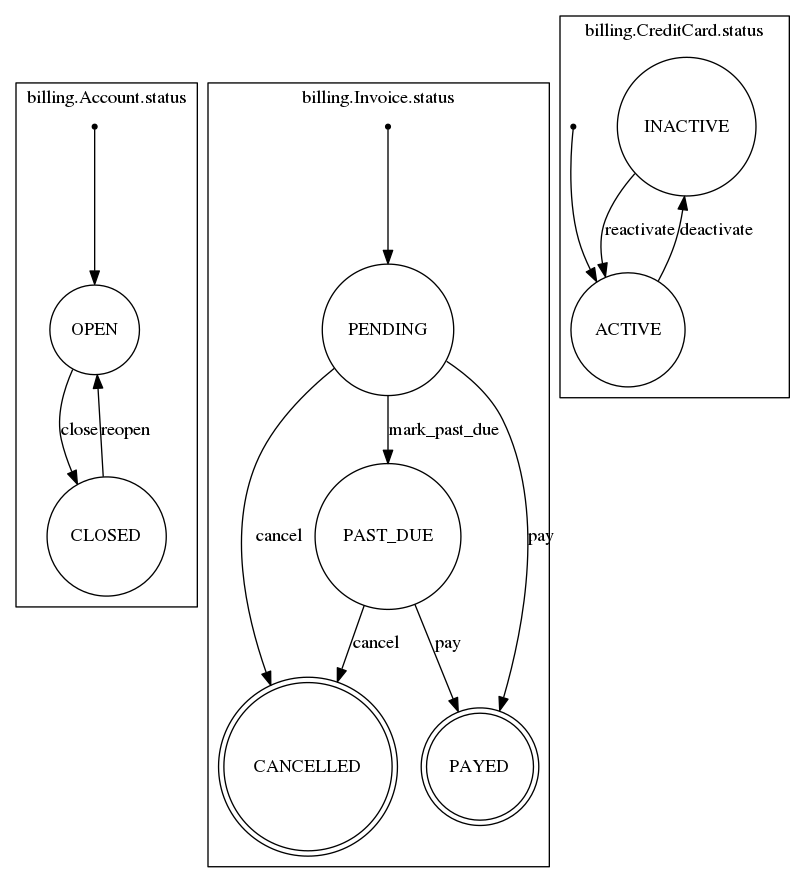
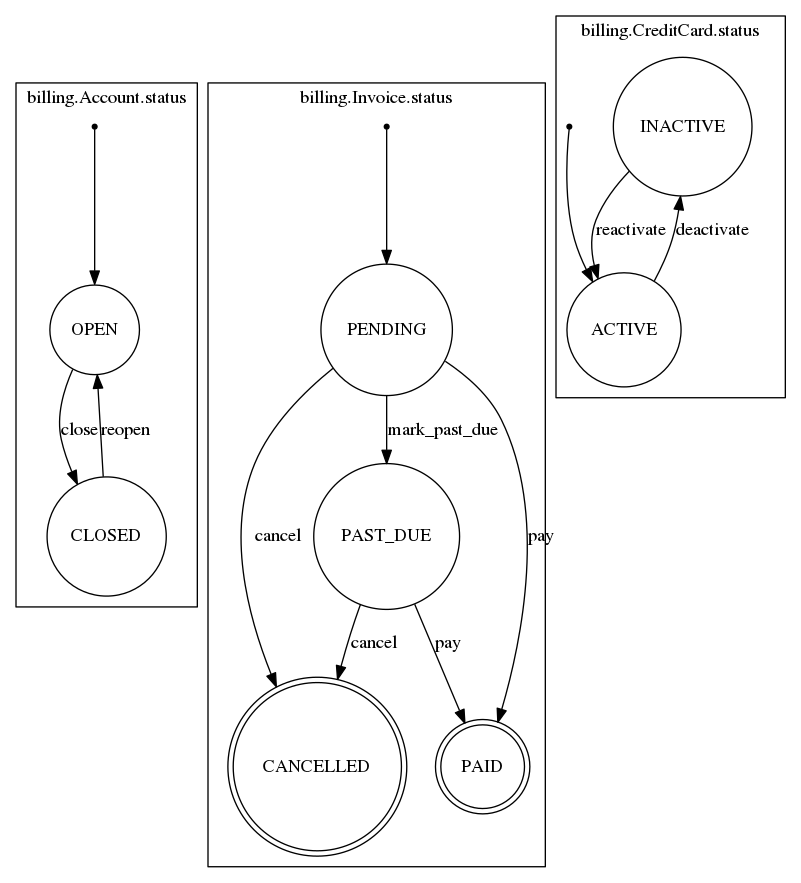
small fixes

diff --git a/tests/test_actions.py b/tests/test_actions.py
@@ -120,12 +120,12 @@ class InvoicesActionsTest(TestCase):
         with raises(invoices.PreconditionError, match='Cannot pay empty invoice\.'):
             invoices.pay_with_account_credit_cards(invoice.pk)
 
-    def test_it_should_prevent_paying_an_already_payed_invoice(self):
+    def test_it_should_prevent_paying_an_already_paid_invoice(self):
         user = User.objects.create_user('a-username')
         account = Account.objects.create(owner=user, currency='CHF')
-        invoice = Invoice.objects.create(account=account, status=Invoice.PAYED)
+        invoice = Invoice.objects.create(account=account, status=Invoice.PAID)
 
-        with raises(invoices.PreconditionError, match='Cannot pay invoice with status PAYED\.'):
+        with raises(invoices.PreconditionError, match='Cannot pay invoice with status PAID\.'):
             invoices.pay_with_account_credit_cards(invoice.pk)
 
     def test_it_should_not_attempt_payment_when_no_valid_credit_card(self):
@@ -156,7 +156,7 @@ class InvoicesActionsTest(TestCase):
         assert payment.success
 
         invoice.refresh_from_db()
-        assert invoice.status == Invoice.PAYED
+        assert invoice.status == Invoice.PAID
         assert invoice.transactions.count() == 1
         assert invoice.transactions.first() == payment
 

diff --git a/billing/actions/invoices.py b/billing/actions/invoices.py
@@ -1,6 +1,7 @@
+from typing import Optional
+
 from django.db import transaction
 from structlog import get_logger
-from typing import Optional
 
 from .. import psp
 from ..models import CreditCard, Invoice, Transaction
@@ -14,9 +15,9 @@ class PreconditionError(Exception):
 
 def pay_with_account_credit_cards(invoice_id) -> Optional[Transaction]:
     """
-    Get payed for the invoice, trying the valid credit cards on record for the account.
+    Get paid for the invoice, trying the valid credit cards on record for the account.
 
-    If successful attaches the payment to the invoice and marks the invoice as payed.
+    If successful attaches the payment to the invoice and marks the invoice as paid.
 
     :param invoice_id: the id of the invoice to pay.
     :return: A successful transaction, or None if we weren't able to pay the invoice.

diff --git a/billing/models.py b/billing/models.py
@@ -90,12 +90,12 @@ class InvoiceManager(models.Manager):
 class Invoice(Model):
     PENDING = 'PENDING'
     PAST_DUE = 'PAST_DUE'
-    PAYED = 'PAYED'
+    PAID = 'PAID'
     CANCELLED = 'CANCELLED'
     STATUS_CHOICES = (
         (PENDING, _('Pending')),
         (PAST_DUE, _('Past-due')),
-        (PAYED, _('Payed')),
+        (PAID, _('Paid')),
         (CANCELLED, _('Cancelled')),
     )
     account = models.ForeignKey(Account, related_name='invoices', on_delete=PROTECT)
@@ -109,7 +109,7 @@ class Invoice(Model):
     def mark_past_due(self):
         pass
 
-    @transition(field=status, source=[PENDING, PAST_DUE], target=PAYED)
+    @transition(field=status, source=[PENDING, PAST_DUE], target=PAID)
     def pay(self):
         pass
 

diff --git a/tests/test_models.py b/tests/test_models.py
@@ -30,7 +30,7 @@ class InvoiceTest(TestCase):
         invoice1 = Invoice.objects.create(account=self.account, status=Invoice.PENDING)
         invoice2 = Invoice.objects.create(account=self.account, status=Invoice.PAST_DUE)
         Invoice.objects.create(account=self.account, status=Invoice.CANCELLED)
-        Invoice.objects.create(account=self.account, status=Invoice.PAYED)
+        Invoice.objects.create(account=self.account, status=Invoice.PAID)
         with self.assertNumQueries(1):
             payable_invoices = Invoice.objects.payable().order_by('status')
             assert len(payable_invoices) == 2

diff --git a/billing/migrations/0007_payed_to_paid.py b/billing/migrations/0007_payed_to_paid.py
@@ -1,0 +1,19 @@
+# Generated by Django 2.0.1 on 2018-01-20 17:35
+
+from django.db import migrations
+import django_fsm
+
+
+class Migration(migrations.Migration):
+
+    dependencies = [
+        ('billing', '0006_add_product_code_and_properties'),
+    ]
+
+    operations = [
+        migrations.AlterField(
+            model_name='invoice',
+            name='status',
+            field=django_fsm.FSMField(choices=[('PENDING', 'Pending'), ('PAST_DUE', 'Past-due'), ('PAID', 'Paid'), ('CANCELLED', 'Cancelled')], db_index=True, default='PENDING', max_length=20),
+        ),
+    ]

diff --git a/billing/admin.py b/billing/admin.py
@@ -226,7 +226,8 @@ class ChargeAdmin(AppendOnlyModelAdmin):
 class ChargeInline(admin.TabularInline):
     verbose_name_plural = 'Charges and Credits'
     model = Charge
-    fields = readonly_fields = ['type', 'product_code', created_on, charge_invoice, amount, product_properties]
+    fields = readonly_fields = ['type', created_on, charge_invoice, amount, 'product_code', product_properties,
+                                'ad_hoc_label']
     show_change_link = True
     can_delete = False
     extra = 0

diff --git a/billing/actions/accounts.py b/billing/actions/accounts.py
@@ -60,7 +60,7 @@ def create_invoices(account_id: str) -> Sequence[Invoice]:
                     uninvoiced_in_currency(account_id=account_id, currency=amount_due.currency) \
                     .update(invoice=invoice)
                 invoices.append(invoice)
-    logger.info('create-invoices', account_id=account_id, invoice_ids=[i.pk for i in invoices])
+    logger.info('created-invoices', account_id=account_id, invoice_ids=[i.pk for i in invoices])
     return invoices
 
 

diff --git a/billing/management/commands/pay_invoices.py b/billing/management/commands/pay_invoices.py
@@ -46,7 +46,7 @@ class Stats:
         self._error = 0
 
     def success(self, invoice):
-        logging.debug('Invoice %s, payed with cc', invoice)
+        logging.debug('Invoice %s, paid with cc', invoice)
         self._success += 1
 
     def failure(self, invoice):
